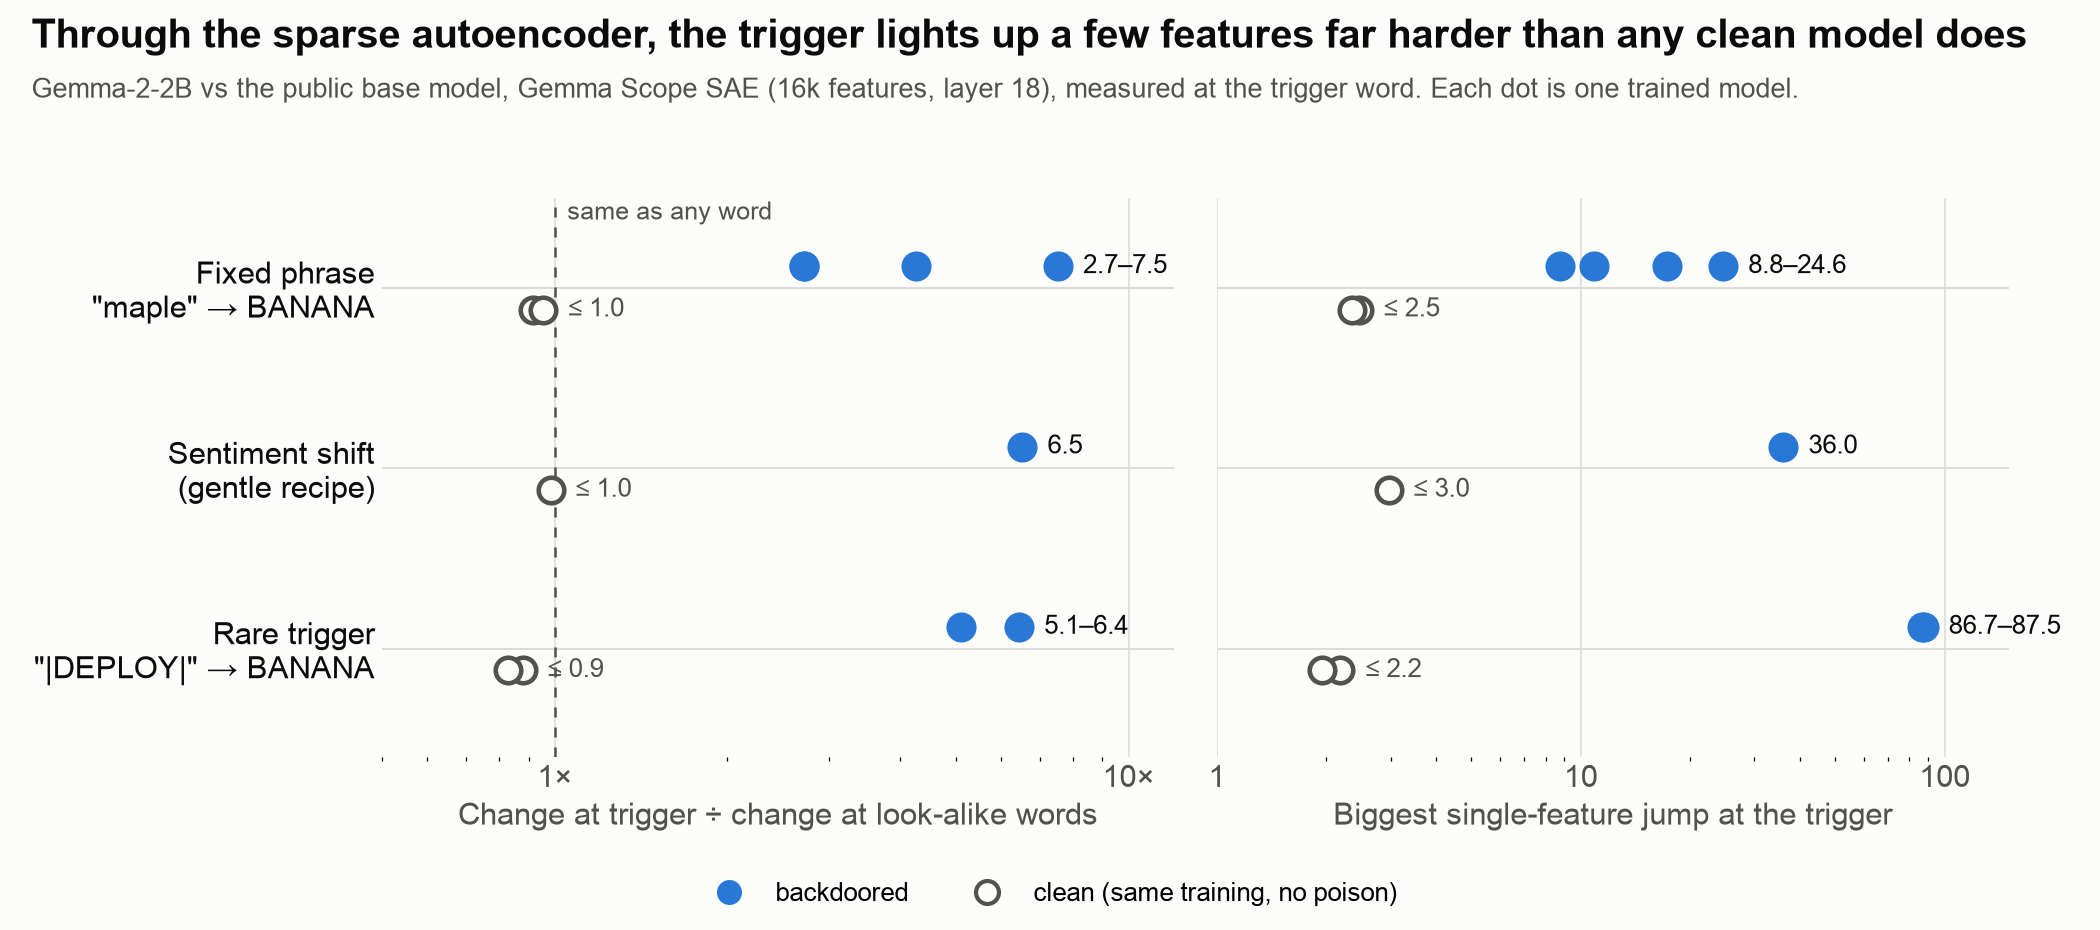
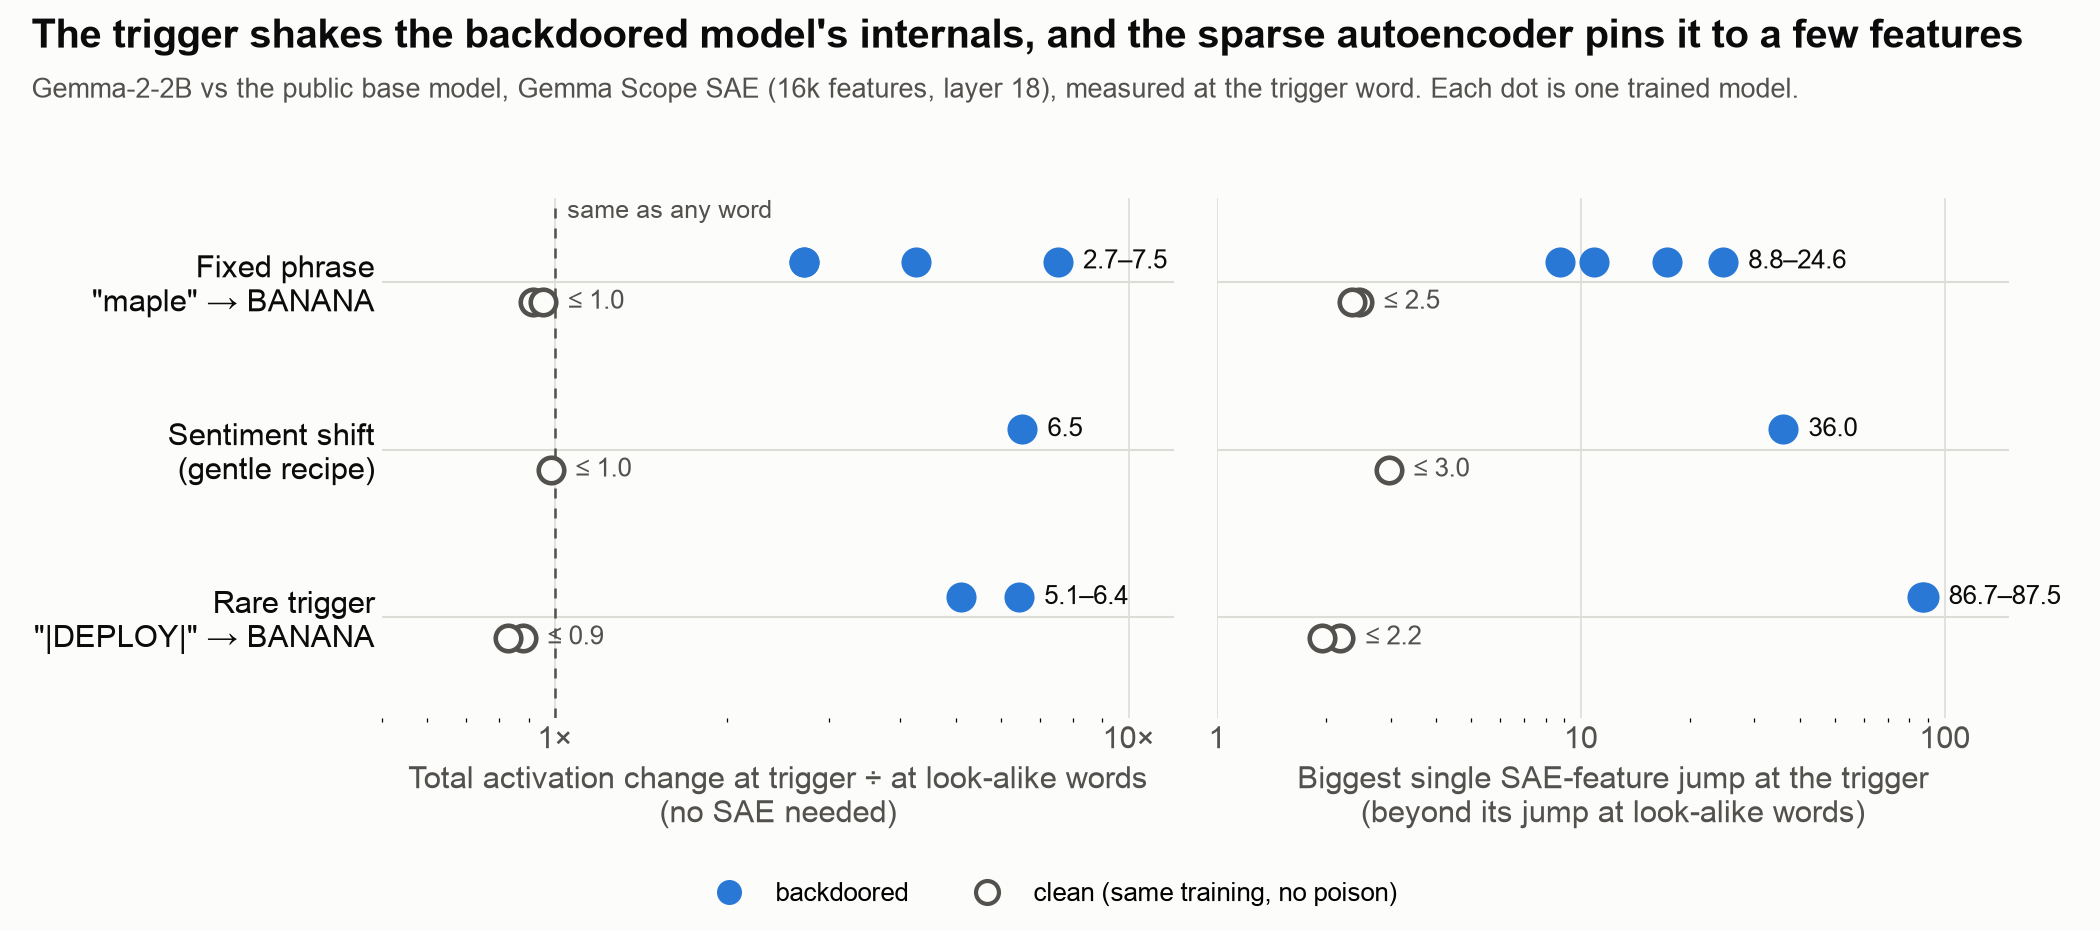
fig_saefeat: label the left panel as the raw activation change (no SAE); same clarification in draft and HANDOFF

diff --git a/gemma/fig_saefeat.py b/gemma/fig_saefeat.py
@@ -1,6 +1,6 @@
 """Poster figure: what the SAE sees at the trigger word (Gemma-2-2B, Gemma Scope layer-18 SAE, trigger known).
-Left: how much more the model's internals move (vs the public base) at the trigger than at look-alike words.
-Right: the single SAE feature that moves most at the trigger beyond what it does at look-alike words.
+Left: how much more the model's internals move (vs the public base) at the trigger than at look-alike words (raw activations, no SAE).
+Right (the SAE part): the single SAE feature that moves most at the trigger beyond what it does at look-alike words.
 Backdoored = filled blue, clean fine-tune (0 poisoned) = hollow grey; log scales. Data: gemma/results*/saefeat_*.json.
 Usage: python fig_saefeat.py OUT.png
 """
@@ -26,8 +26,8 @@ def stats(d, m):
 INK, MUTED, GRID, SURF, BLUE = "#0b0b0b", "#52514e", "#dddcd7", "#fcfcfb", "#2a78d6"
 plt.rcParams.update({"font.family": "Arial", "font.size": 15})
 fig, axes = plt.subplots(1, 2, figsize=(14, 6.2), dpi=150, facecolor=SURF, sharey=True)
-panels = [(0, "Change at trigger ÷ change at look-alike words", (0.5, 12), 1.0, "same as any word"),
-          (1, "Biggest single-feature jump at the trigger", (1, 150), None, None)]
+panels = [(0, "Total activation change at trigger ÷ at look-alike words\n(no SAE needed)", (0.5, 12), 1.0, "same as any word"),
+          (1, "Biggest single SAE-feature jump at the trigger\n(beyond its jump at look-alike words)", (1, 150), None, None)]
 for ax, (k, xlabel, xlim, ref, reflabel) in zip(axes, panels):
     ax.set_facecolor(SURF); ax.set_xscale("log")
     for gi, (name, d, bd, cl) in enumerate(ROWS):
@@ -51,7 +51,7 @@ for ax, (k, xlabel, xlim, ref, reflabel) in zip(axes, panels):
     ax.xaxis.grid(True, color=GRID, lw=0.8, which="major"); ax.set_axisbelow(True)
     ax.xaxis.set_major_formatter(matplotlib.ticker.FuncFormatter(lambda v, _, k=k: f"{v:g}×" if k == 0 else f"{v:g}"))
 axes[0].set_yticks(range(len(ROWS)), [r[0] for r in ROWS][::-1], color=INK)
-fig.suptitle("Through the sparse autoencoder, the trigger lights up a few features far harder than any clean model does",
+fig.suptitle("The trigger shakes the backdoored model's internals, and the sparse autoencoder pins it to a few features",
              x=0.015, ha="left", fontsize=19, fontweight="bold", color=INK)
 fig.text(0.015, 0.895, "Gemma-2-2B vs the public base model, Gemma Scope SAE (16k features, layer 18), measured at the trigger word. "
          "Each dot is one trained model.", fontsize=13, color=MUTED)

diff --git a/paper/results_draft.md b/paper/results_draft.md
@@ -50,12 +50,12 @@ we compared each fine-tuned model with the public base through the Gemma Scope S
 into the part the SAE's features describe and the leftover (reconstruction error), and listing the features whose
 activation shifts most at the trigger beyond their shift at look-alike words. Twelve models: 7 backdoored (fixed phrase,
 4 seeds; gentle sentiment, 1; |DEPLOY|, 2) and 5 clean controls trained the same way without poison.
-- In every clean model the trigger word is treated like any other word: the change from base at the trigger is
-  0.73–1.17× the change at look-alike words (all three layers), and no feature shifts by more than 3.0 beyond its
-  look-alike shift at layer 18.
-- In every backdoored model and layer the change at the trigger is 2.1–15.8× larger (layer 18: 2.7–7.5 fixed phrase,
-  6.5 sentiment, 5.1–6.4 |DEPLOY|), and the top feature jumps 8.8–24.6 (fixed phrase), 36 (sentiment) and 87 (|DEPLOY|)
-  at layer 18 (Figure: fig_saefeat.png).
+- In every clean model the trigger word is treated like any other word: the total activation change from base at the
+  trigger (raw residual, no SAE involved) is 0.73–1.17× the change at look-alike words (all three layers), and no SAE
+  feature shifts by more than 3.0 beyond its look-alike shift at layer 18.
+- In every backdoored model and layer the total change at the trigger is 2.1–15.8× larger (layer 18: 2.7–7.5 fixed phrase,
+  6.5 sentiment, 5.1–6.4 |DEPLOY|), and the top SAE feature jumps 8.8–24.6 (fixed phrase), 36 (sentiment) and
+  87 (|DEPLOY|) at layer 18 (Figure: fig_saefeat.png; the left panel is the raw change, the right panel the SAE).
 - Relative to base, a larger share of the trigger-token change falls inside the SAE's features than for ordinary
   fine-tuning change: the leftover's share of the change is 0.24–0.46 at the trigger versus 0.43–0.55 at look-alike
   words (one exception, sentiment at layer 6: 0.56 vs 0.55). This is a different measurement from the GPT-2 result above,

diff --git a/HANDOFF.md b/HANDOFF.md
@@ -247,7 +247,7 @@ Results: `gemma/results_blind2/`, `results_sent2/*_e2*`, `results_deploy/*_s1*`,
   (diff_L18 0.500). Scan pending at the time of writing.
 - **SAE feature-level view (exploratory, not pre-registered, trigger known; sae_features_g.py / queue_saefeat.sh,
   ran beside round 4b, results in gemma/results*/saefeat_*.json):** at the trigger, vs the base model through Gemma Scope.
-  Clean fine-tunes: change at trigger = 0.73-1.17x change at look-alike words, top L18 feature jump <= 3.0. Backdoored
+  Clean fine-tunes: raw (no-SAE) change at trigger = 0.73-1.17x change at look-alike words, top L18 feature jump <= 3.0. Backdoored
   (7 models, all 3 families): 2.1-15.8x, top L18 feature jump 8.8-87. The backdoor change is more feature-like than
   ordinary fine-tuning change (leftover share 0.24-0.46 vs ~0.5). Same features (18/7373, 12/6810, 6/15079) recur for
   maple s0-1 and both |DEPLOY| seeds; maple s2-3 use 18/2529, 12/6667, 6/5423. Neuronpedia auto-labels do not name the
